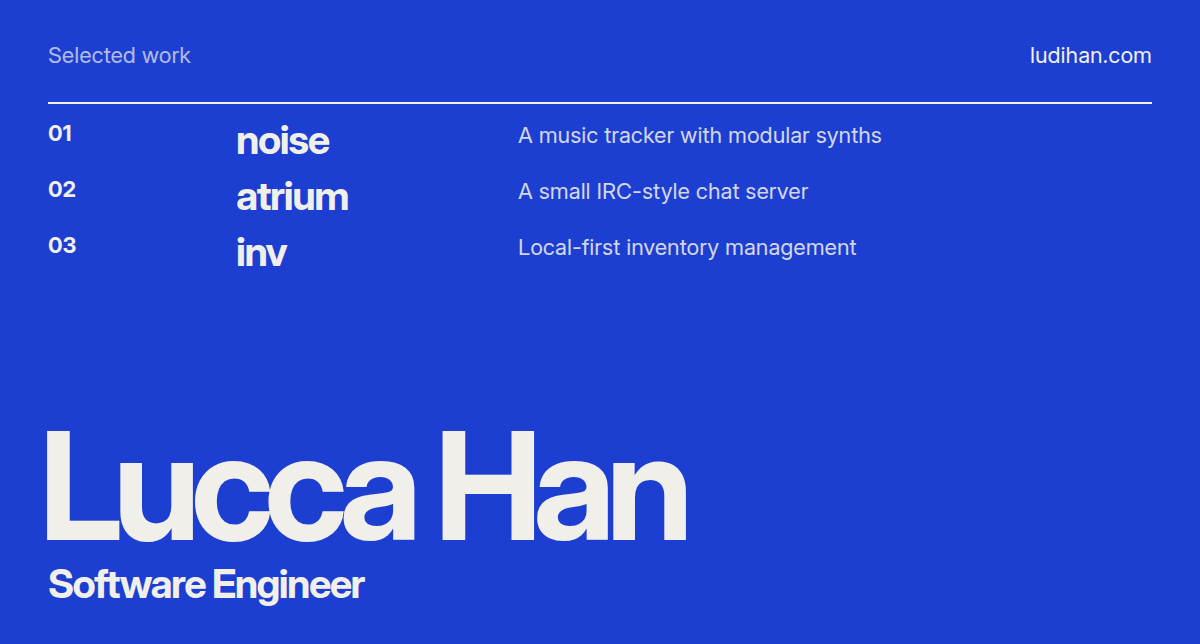
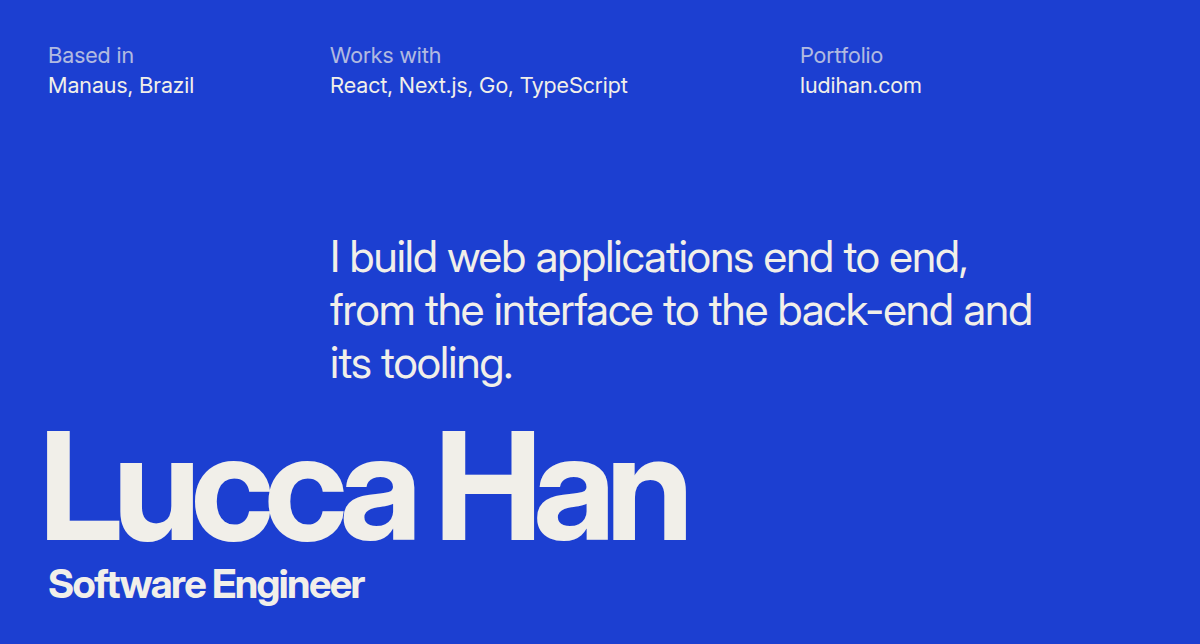
Replace the LinkedIn Featured card's project list with the site's statement and information line

diff --git a/design/linkedin-featured/featured.html b/design/linkedin-featured/featured.html
@@ -2,7 +2,8 @@
 <!--
   LinkedIn Featured image, 1200 × 644 (LinkedIn's recommended size for a featured media card),
   set like the site's home cover: ultramarine field, Inter, a 12-column grid with a 48px margin
-  and 24px gutter. Three projects in the first three numbered rows, the name at the bottom.
+  and 24px gutter. The information line across the top, the statement in the middle, the name
+  and title at the bottom left.
 
   Render with:
     chromium --headless=new --hide-scrollbars --window-size=1200,644 \
@@ -31,23 +32,27 @@
     column-gap: 24px;
     padding: 0 48px;
   }
-  .top { padding-top: 40px; font-size: 22px; line-height: 30px; }
-  .top .label { opacity: 0.7; }
-  .rule { border-top: 2px solid #f1efe9; margin-top: 32px; }
+  .info { padding-top: 40px; font-size: 22px; line-height: 30px; margin: 0; }
+  .info dt { opacity: 0.7; }
+  .info dd { margin: 0; }
 
-  .work { padding-top: 22px; }
-  .work li { list-style: none; padding: 16px 48px 0; }
-  .work .no { grid-column: 1 / 3; font-size: 22px; font-weight: 700; }
-  .work .name { grid-column: 3 / 6; font-size: 40px; font-weight: 700; letter-spacing: -0.035em; line-height: 1; }
-  .work .tag { grid-column: 6 / 13; font-size: 22px; line-height: 30px; opacity: 0.86; }
-  .work ol { margin: 0; padding: 0; }
+  .statement {
+    position: absolute;
+    top: 230px;
+    left: 0; right: 0;
+    margin: 0;
+    font-size: 44px;
+    line-height: 1.2;
+    letter-spacing: -0.02em;
+    text-wrap: pretty;
+  }
 
   .foot {
     position: absolute;
     left: 0; right: 0; bottom: 40px;
     align-items: end;
   }
-  .name-big {
+  .name {
     grid-column: 1 / 13;
     margin: 0 0 0 -0.06em;
     font-size: 150px;
@@ -67,20 +72,16 @@
 </style>
 </head>
 <body>
-  <div class="top grid">
-    <span class="label" style="grid-column: 1 / 4">Selected work</span>
-    <span style="grid-column: 9 / 13; text-align: right">ludihan.com</span>
-  </div>
-  <div class="rule" style="margin-left:48px;margin-right:48px"></div>
+  <dl class="info grid">
+    <div style="grid-column: 1 / 4"><dt>Based in</dt><dd>Manaus, Brazil</dd></div>
+    <div style="grid-column: 4 / 8"><dt>Works with</dt><dd>React, Next.js, Go, TypeScript</dd></div>
+    <div style="grid-column: 9 / 13"><dt>Portfolio</dt><dd>ludihan.com</dd></div>
+  </dl>
 
-  <ol class="work" style="margin:0;padding:0">
-    <li class="grid"><span class="no">01</span><span class="name">noise</span><span class="tag">A music tracker with modular synths</span></li>
-    <li class="grid"><span class="no">02</span><span class="name">atrium</span><span class="tag">A small IRC-style chat server</span></li>
-    <li class="grid"><span class="no">03</span><span class="name">inv</span><span class="tag">Local-first inventory management</span></li>
-  </ol>
+  <p class="statement grid" style="margin-top:0"><span style="grid-column: 4 / 12; display:block">I build web applications end to end, from the interface to the back-end and its tooling.</span></p>
 
   <div class="foot grid">
-    <p class="name-big">Lucca Han</p>
+    <p class="name">Lucca Han</p>
     <p class="role">Software Engineer</p>
   </div>
 </body>
